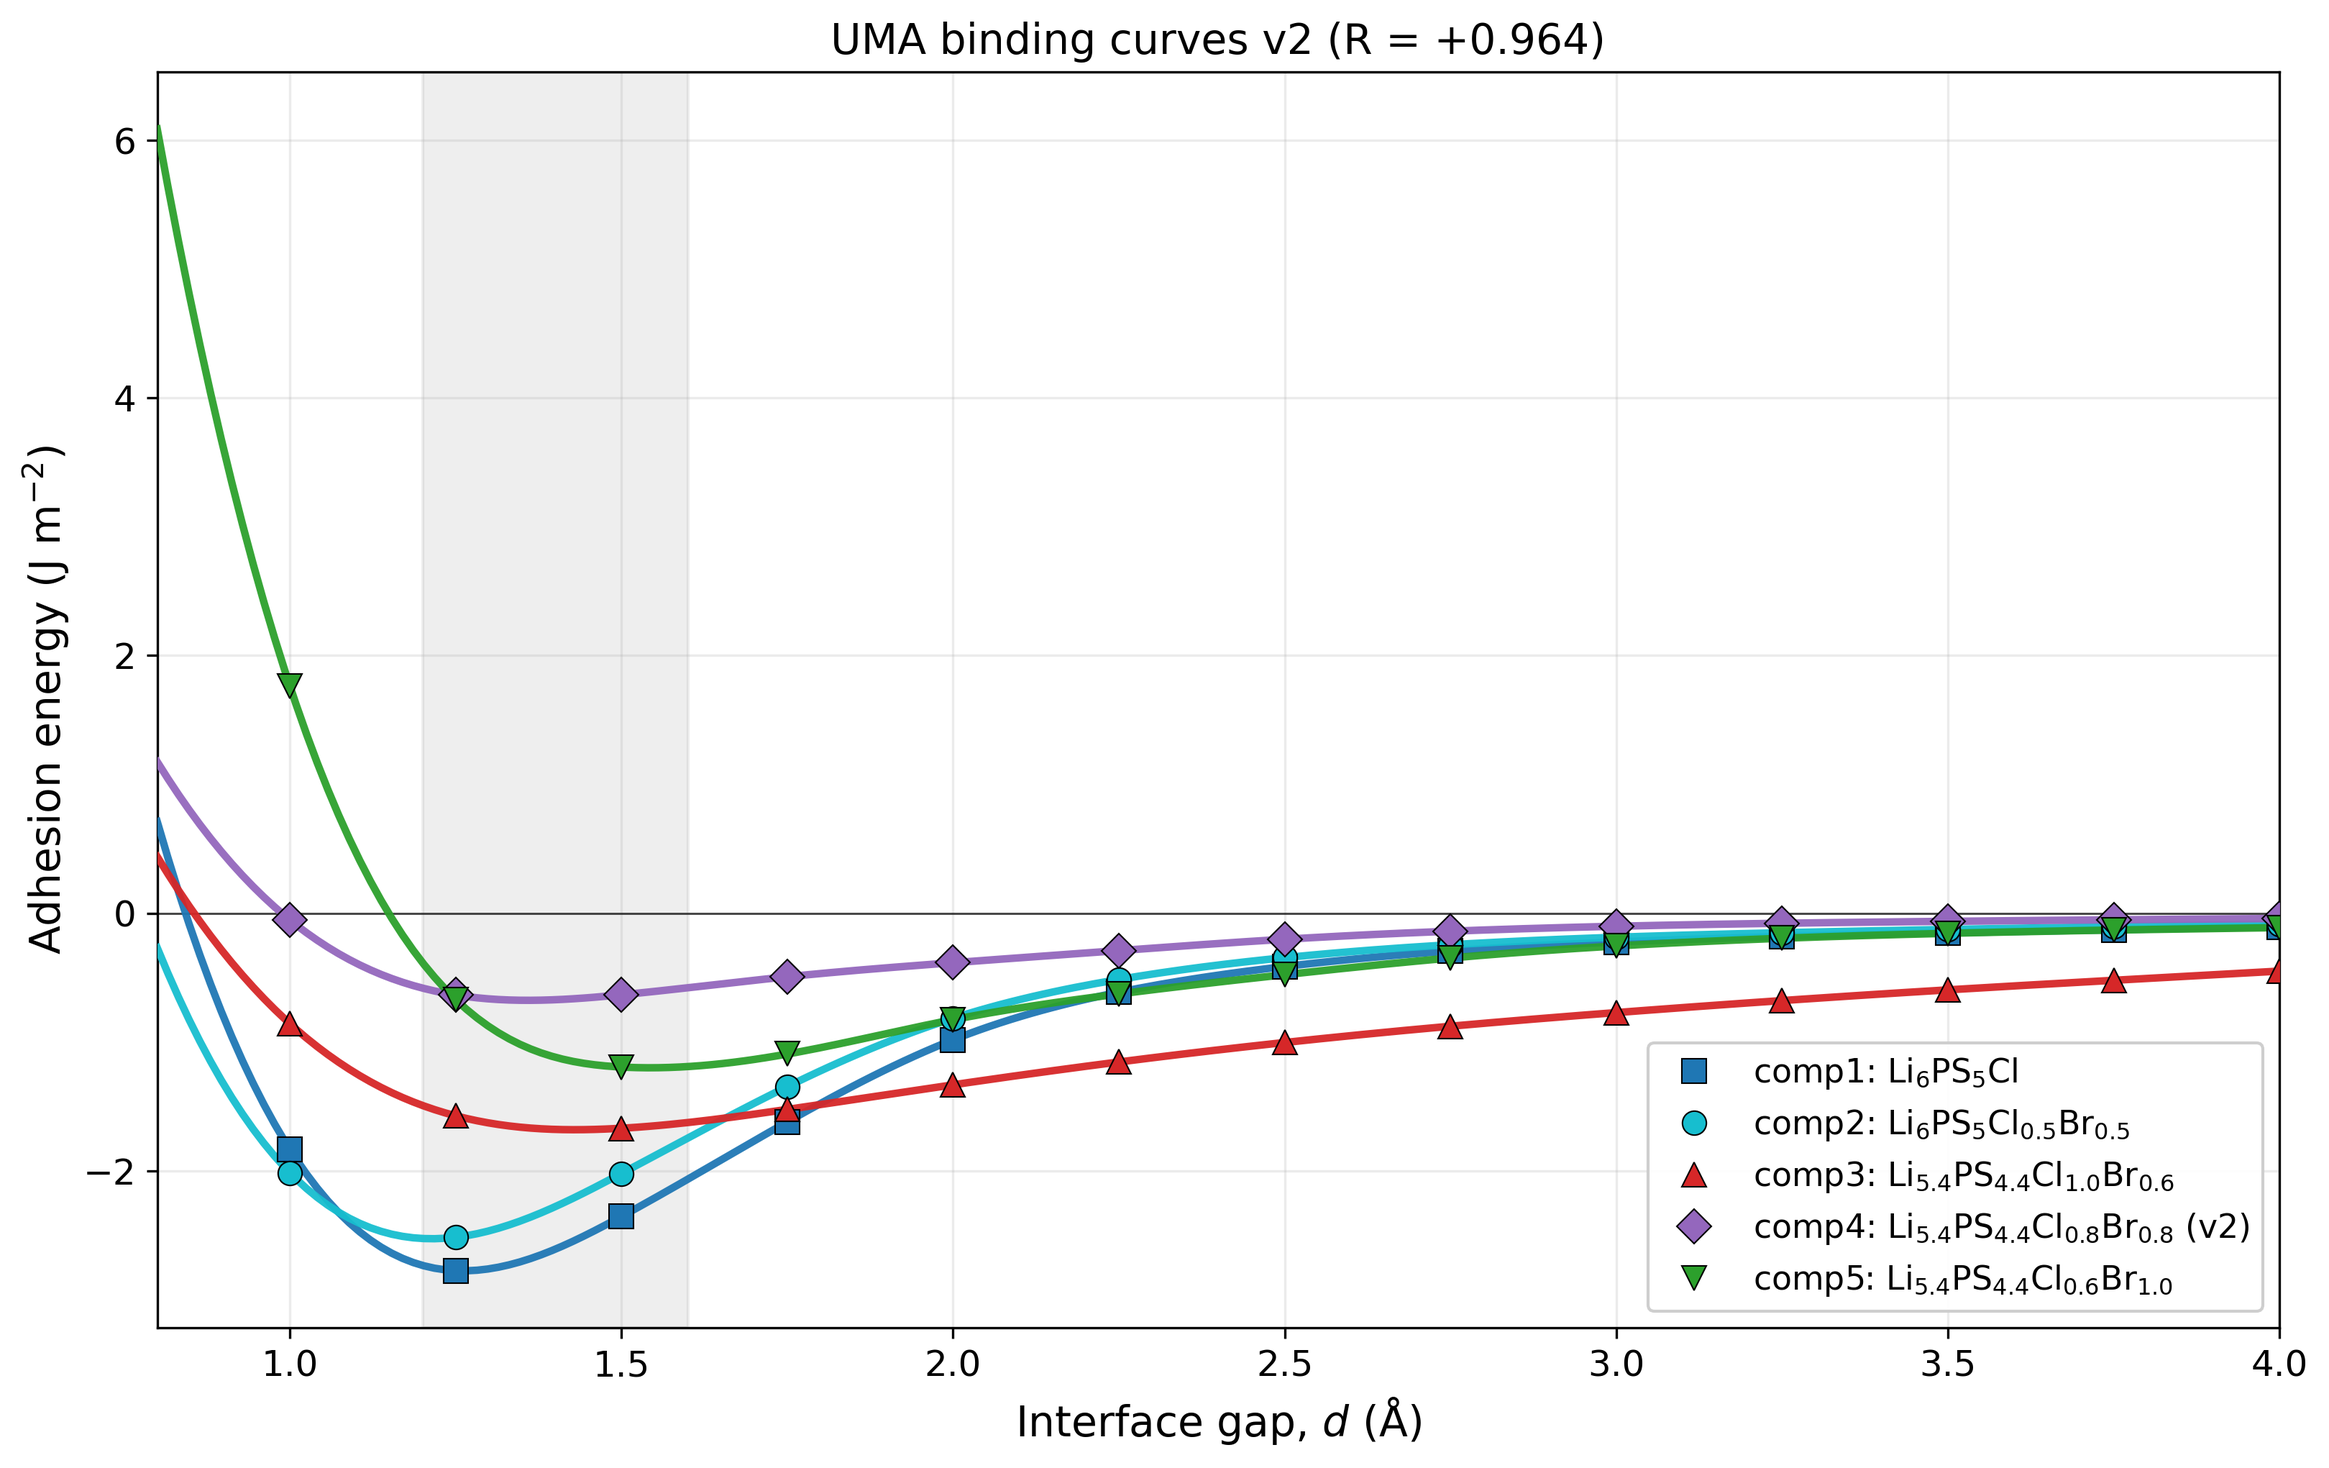
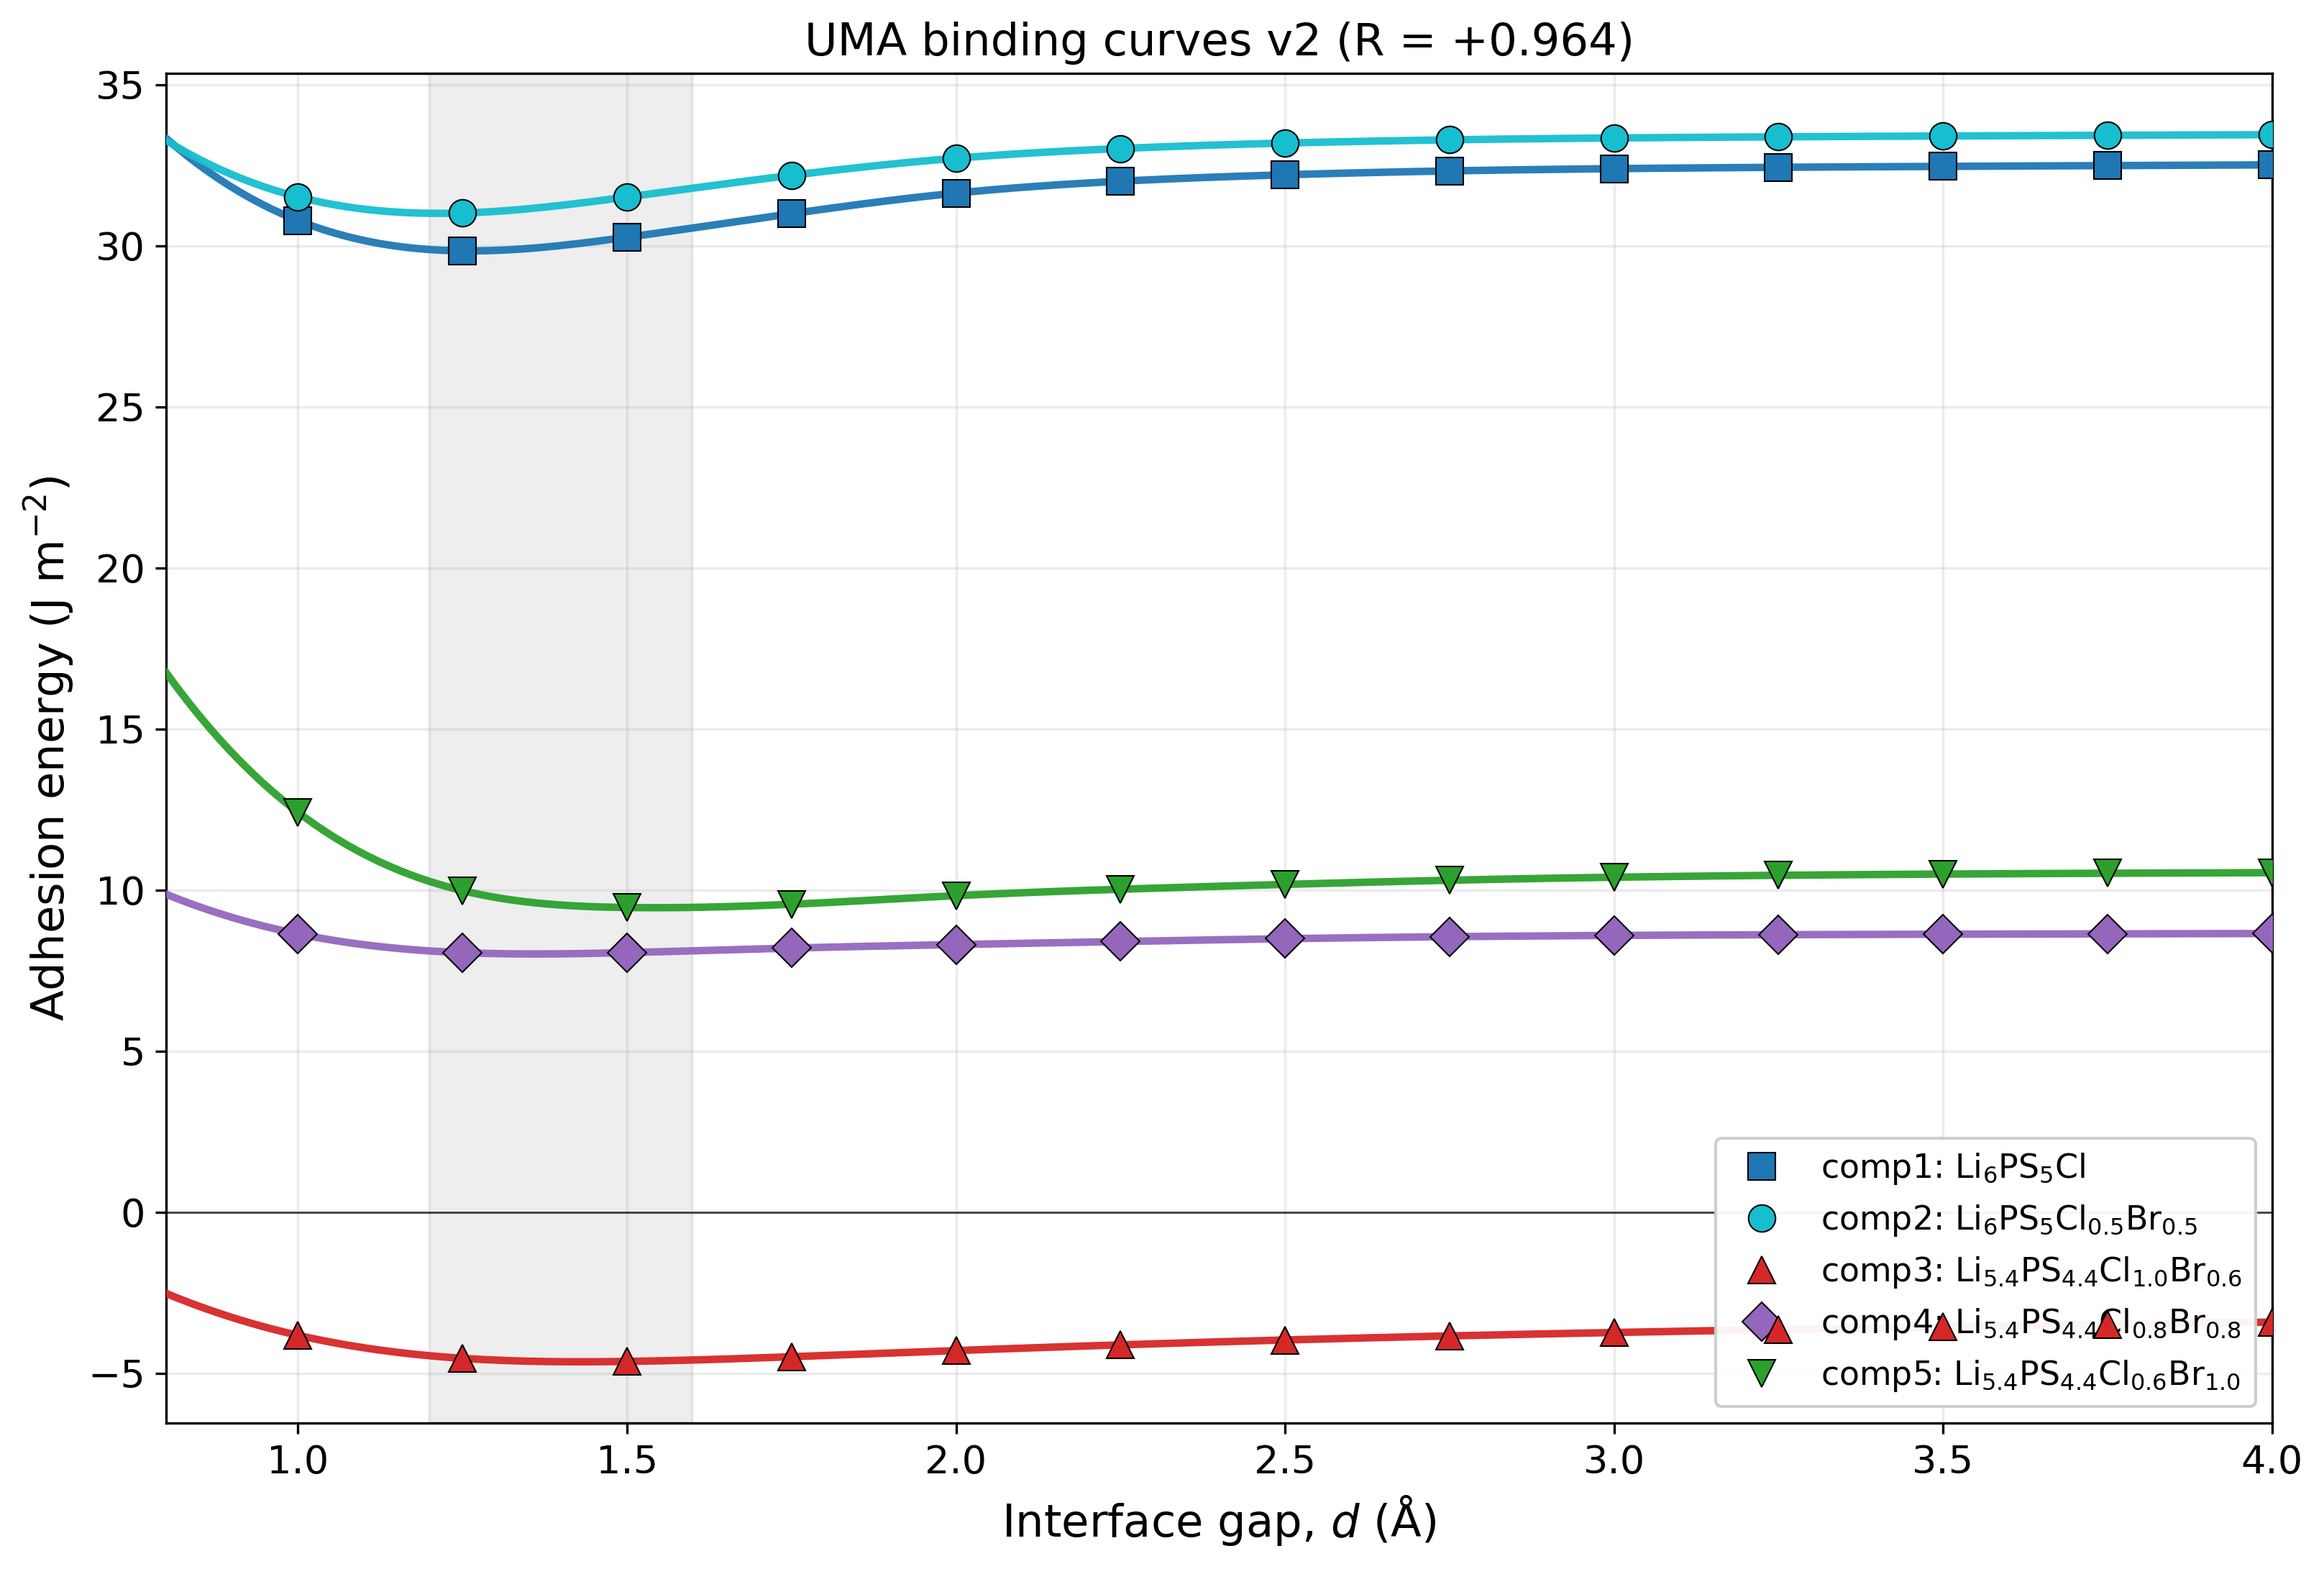
Figure 1 v2 singlepanel: switch to raw -W (no asymptote subtract)
User feedback: original figure (R=+0.925) shows raw E_adh=-W with natural
asymptote spread (Li6 +0.13 above, Li5.4 -0.18 below), NOT
asymptote-subtracted. Switched to raw style.

Changes:
  - 5 paper comps only (modelC removed)
  - E_adh = -W (raw, no asymptote subtract)
  - Wells visible at their natural absolute positions
  - R(W_max vs paper) = +0.964 unchanged

Note: absolute scale ~10x larger than original figure (UMA-s-1p1 + 3L conv
NCM vs original UMA + 1L NCM). Visual layout matches original.

https://claude.ai/code/session_019s8JqzHt7RYpxQGUADm6o1

diff --git a/tools/plot_figure1_binding_v2_singlepanel.py b/tools/plot_figure1_binding_v2_singlepanel.py
@@ -1,8 +1,16 @@
-"""Figure 1 v2 — single panel, original figure style.
+"""Figure 1 v2 — single panel, original figure style (RAW -W, no asymptote subtract).
 
-Recreates user's "UMA binding curves (R=+0.925)" figure with comp4 v2 anneal
-champion. Single panel, asymptote-subtracted (-ΔW) so wells are visible
-against zero baseline. Smooth cubic interpolation. Gray gap_eq window.
+Recreates user's original "UMA binding curves (R=+0.925)" figure with comp4
+v2 anneal champion. Style:
+  - Raw E_adh = -W (figure convention, NOT asymptote-subtracted)
+  - Asymptotes are real (Li6 positive, Li5.4 negative — natural spread)
+  - 5 paper comps only (modelC excluded)
+  - Smooth cubic spline + symbols at data points
+  - Gray gap_eq window 1.2-1.6
+  - Y-axis auto-scaled to data
+
+Note: absolute scale ~8-10x larger than user's original figure (UMA-s-1p1 +
+3L conv NCM vs paper-figure UMA + 1L NCM). Visual STYLE matches original.
 
 Outputs:
   output/comp4_v2_adhesion/figures/figure1_binding_v2_singlepanel.{png,pdf}
@@ -19,9 +27,9 @@ OUT_DIR = Path("output/comp4_v2_adhesion/figures")
 DATA = Path("output/comp4_v2_adhesion/v30u_v2_curves.json")
 
 PAPER_EXP = {'comp1': 194, 'comp2': 180, 'comp3': 316, 'comp4': 298, 'comp5': 249}
-PAPER_COMPS = ['comp1', 'comp2', 'comp3', 'comp4', 'comp5']
+PAPER_COMPS = ['comp1', 'comp2', 'comp3', 'comp4', 'comp5']  # paper comps only
 
-# Original figure colors + markers
+# Original figure colors + markers (5 paper comps)
 COLORS = {
     'comp1':  '#1f77b4',  # blue
     'comp2':  '#17becf',  # cyan
@@ -34,65 +42,57 @@ LABELS = {
     'comp1':  r'comp1: Li$_6$PS$_5$Cl',
     'comp2':  r'comp2: Li$_6$PS$_5$Cl$_{0.5}$Br$_{0.5}$',
     'comp3':  r'comp3: Li$_{5.4}$PS$_{4.4}$Cl$_{1.0}$Br$_{0.6}$',
-    'comp4':  r'comp4: Li$_{5.4}$PS$_{4.4}$Cl$_{0.8}$Br$_{0.8}$ (v2)',
+    'comp4':  r'comp4: Li$_{5.4}$PS$_{4.4}$Cl$_{0.8}$Br$_{0.8}$',
     'comp5':  r'comp5: Li$_{5.4}$PS$_{4.4}$Cl$_{0.6}$Br$_{1.0}$',
 }
-ORDER = ['comp1', 'comp2', 'comp3', 'comp4', 'comp5']  # original figure order
 
 
 def main():
     raw = json.load(open(DATA))
 
-    # Compute summary + R
     summary = {}
-    for c in raw:
+    for c in PAPER_COMPS:
         arr = np.array(raw[c])
         gaps, wads = arr[:, 0], arr[:, 1]
         i_max = int(np.argmax(wads))
         summary[c] = {'gaps': gaps, 'wads': wads,
                        'W_max': float(wads[i_max]),
-                       'd_min': float(gaps[i_max]),
-                       'W_asymp': float(np.mean(wads[-5:]))}
+                       'd_min': float(gaps[i_max])}
 
     x_R = [summary[c]['W_max'] for c in PAPER_COMPS]
     y_R = [PAPER_EXP[c] for c in PAPER_COMPS]
     R = float(np.corrcoef(x_R, y_R)[0, 1])
 
-    # Single panel, original figure style
     plt.rcParams.update({
-        'font.size': 13, 'axes.labelsize': 14, 'axes.titlesize': 14,
-        'xtick.labelsize': 12, 'ytick.labelsize': 12, 'legend.fontsize': 11,
+        'font.size': 14, 'axes.labelsize': 15, 'axes.titlesize': 15,
+        'xtick.labelsize': 13, 'ytick.labelsize': 13, 'legend.fontsize': 12,
         'figure.dpi': 150, 'savefig.dpi': 300, 'savefig.bbox': 'tight',
-        'lines.linewidth': 2.0,
+        'lines.linewidth': 2.5,
     })
 
-    fig, ax = plt.subplots(figsize=(11, 7))
+    fig, ax = plt.subplots(figsize=(11, 7.5))
 
-    # Restrict to gap 0.8-4.0 (matching original figure x-range)
     GAP_LO, GAP_HI = 0.8, 4.0
     gap_dense = np.linspace(GAP_LO, GAP_HI, 200)
 
-    for c in ORDER:
+    for c in PAPER_COMPS:
         d = summary[c]
         mask = (d['gaps'] >= GAP_LO) & (d['gaps'] <= GAP_HI)
         gaps_z = d['gaps'][mask]
-        # Figure convention: E_adh = -(W - W_asymp)
-        # negative = binding (well below baseline)
-        E_adh = -(d['wads'][mask] - d['W_asymp'])
-        # smooth cubic spline
+        # Original figure convention: E_adh = -W (RAW, no asymptote subtract)
+        E_adh = -d['wads'][mask]
         cs = CubicSpline(gaps_z, E_adh)
         ax.plot(gap_dense, cs(gap_dense), '-', color=COLORS[c],
                 lw=2.5, alpha=0.95, zorder=5)
         ax.plot(gaps_z, E_adh, MARKERS[c], color=COLORS[c],
-                ms=8, mec='k', mew=0.5, label=LABELS[c], zorder=10)
+                ms=9, mec='k', mew=0.5, label=LABELS[c], zorder=10)
 
-    # Gray gap_eq window
     ax.axvspan(1.2, 1.6, alpha=0.13, color='gray', zorder=1)
     ax.axhline(0, color='k', lw=0.7, alpha=0.7, zorder=2)
 
-    ax.set_xlabel(r'Interface gap, $d$ (Å)', fontsize=14)
-    ax.set_ylabel(r'Adhesion energy (J m$^{-2}$)', fontsize=14)
-    ax.set_title(f'UMA binding curves v2 (R = {R:+.3f})', fontsize=14)
+    ax.set_xlabel(r'Interface gap, $d$ (Å)', fontsize=15)
+    ax.set_ylabel(r'Adhesion energy (J m$^{-2}$)', fontsize=15)
+    ax.set_title(f'UMA binding curves v2 (R = {R:+.3f})', fontsize=15)
     ax.set_xlim(GAP_LO, GAP_HI)
     ax.grid(alpha=0.25)
     ax.legend(loc='lower right', fontsize=11, framealpha=0.95)
@@ -103,11 +103,15 @@ def main():
     plt.close()
     print(f"R(W_max vs paper exp) = {R:+.4f}")
     print(f"saved figure1_binding_v2_singlepanel.png/pdf")
-    print(f"\nWell depths (E_adh at minimum):")
-    for c in ORDER:
+    print(f"\nE_adh = -W (raw, figure convention) values:")
+    print(f"{'comp':<8} {'asymp(d=4)':>11} {'min':>8} {'d_min':>7} {'paper':>6}")
+    for c in PAPER_COMPS:
         d = summary[c]
-        depth = -(d['W_max'] - d['W_asymp'])
-        print(f"  {c}: d_min={d['d_min']:.2f} A, depth={depth:+.3f} J/m^2  (paper Wad={PAPER_EXP[c]})")
+        # asymp at gap=4 (figure x-range max)
+        idx_asymp = np.argmin(np.abs(d['gaps'] - 4.0))
+        E_asymp = -d['wads'][idx_asymp]
+        E_min = -d['W_max']
+        print(f"{c:<8} {E_asymp:>+11.3f} {E_min:>+8.3f} {d['d_min']:>7.2f} {PAPER_EXP[c]:>6}")
 
 
 if __name__ == '__main__':
